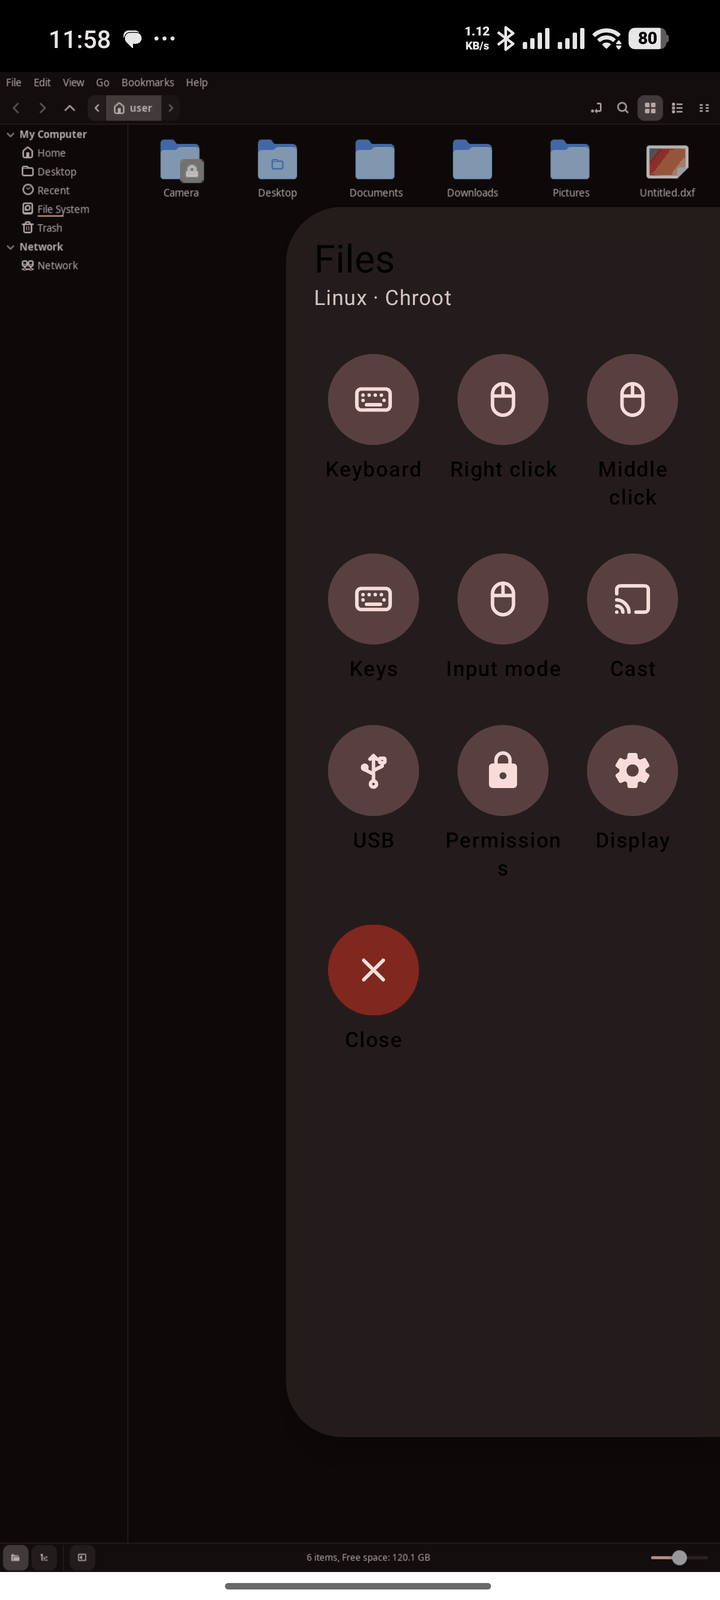
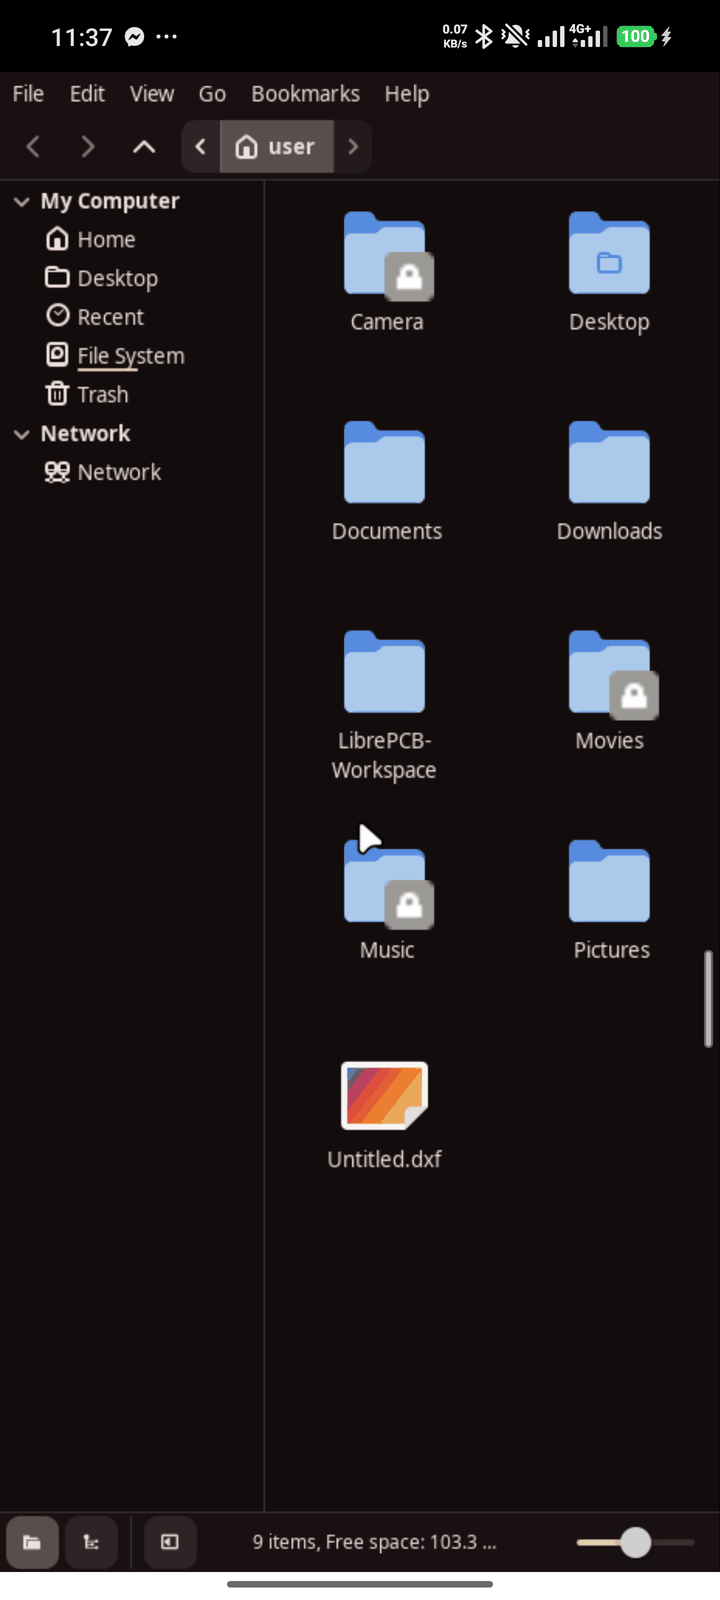
README: screenshots of the launcher, the Flathub store, the window panel and the theming
Taken on the test phone, status bar cropped. Nemo's themed dark shot is
retaken without the window panel over it.

diff --git a/README.md b/README.md
@@ -71,6 +71,35 @@ cast Linux apps to a TV.
 </tr>
 </table>
 
+## Screenshots
+
+<table>
+<tr>
+<td align="center" width="25%"><img src="docs/screenshots/apps.png" width="200" alt="Your Linux apps, as a launcher"><br><sub>Your Linux apps, as a launcher</sub></td>
+<td align="center" width="25%"><img src="docs/screenshots/store-flathub.png" width="200" alt="Debian or Flathub, one switch"><br><sub>Debian or Flathub, one switch</sub></td>
+<td align="center" width="25%"><img src="docs/screenshots/store-app.png" width="200" alt="Flathub apps, one tap to install"><br><sub>Flathub apps, one tap to install</sub></td>
+<td align="center" width="25%"><img src="docs/screenshots/panel.png" width="200" alt="The window panel over LibreOffice"><br><sub>The window panel over LibreOffice</sub></td>
+</tr>
+<tr>
+<td align="center" width="25%"><img src="docs/screenshots/scale.png" width="200" alt="Live scaling, kept per app"><br><sub>Live scaling, kept per app</sub></td>
+<td align="center" width="25%"><img src="docs/screenshots/tasks.png" width="200" alt="Task manager and Sessions"><br><sub>Task manager and Sessions</sub></td>
+<td align="center" width="25%"><img src="docs/screenshots/files.png" width="200" alt="Files: Android and Linux"><br><sub>Files: Android and Linux</sub></td>
+<td align="center" width="25%"><img src="docs/screenshots/setup.png" width="200" alt="Setup: PRoot or chroot"><br><sub>Setup: PRoot or chroot</sub></td>
+</tr>
+</table>
+
+**Your phone's theme, on Linux apps.** The same apps in dark mode, before and after Tessera's
+theming (GTK 3's Nemo and LibreOffice Impress):
+
+<table>
+<tr>
+<td align="center" width="25%"><img src="docs/look/before/nemo-dark.png" width="200" alt="Nemo, before"><br><sub>Nemo, before</sub></td>
+<td align="center" width="25%"><img src="docs/look/after/nemo-dark.png" width="200" alt="Nemo, themed"><br><sub>Nemo, themed</sub></td>
+<td align="center" width="25%"><img src="docs/look/before/libreoffice-impress-dark.png" width="200" alt="Impress, before"><br><sub>Impress, before</sub></td>
+<td align="center" width="25%"><img src="docs/look/after/libreoffice-impress-dark.png" width="200" alt="Impress, themed"><br><sub>Impress, themed</sub></td>
+</tr>
+</table>
+
 ## Why Tessera
 
 Running Linux on a phone has always meant a terminal app, a pile of commands from a forum post,
